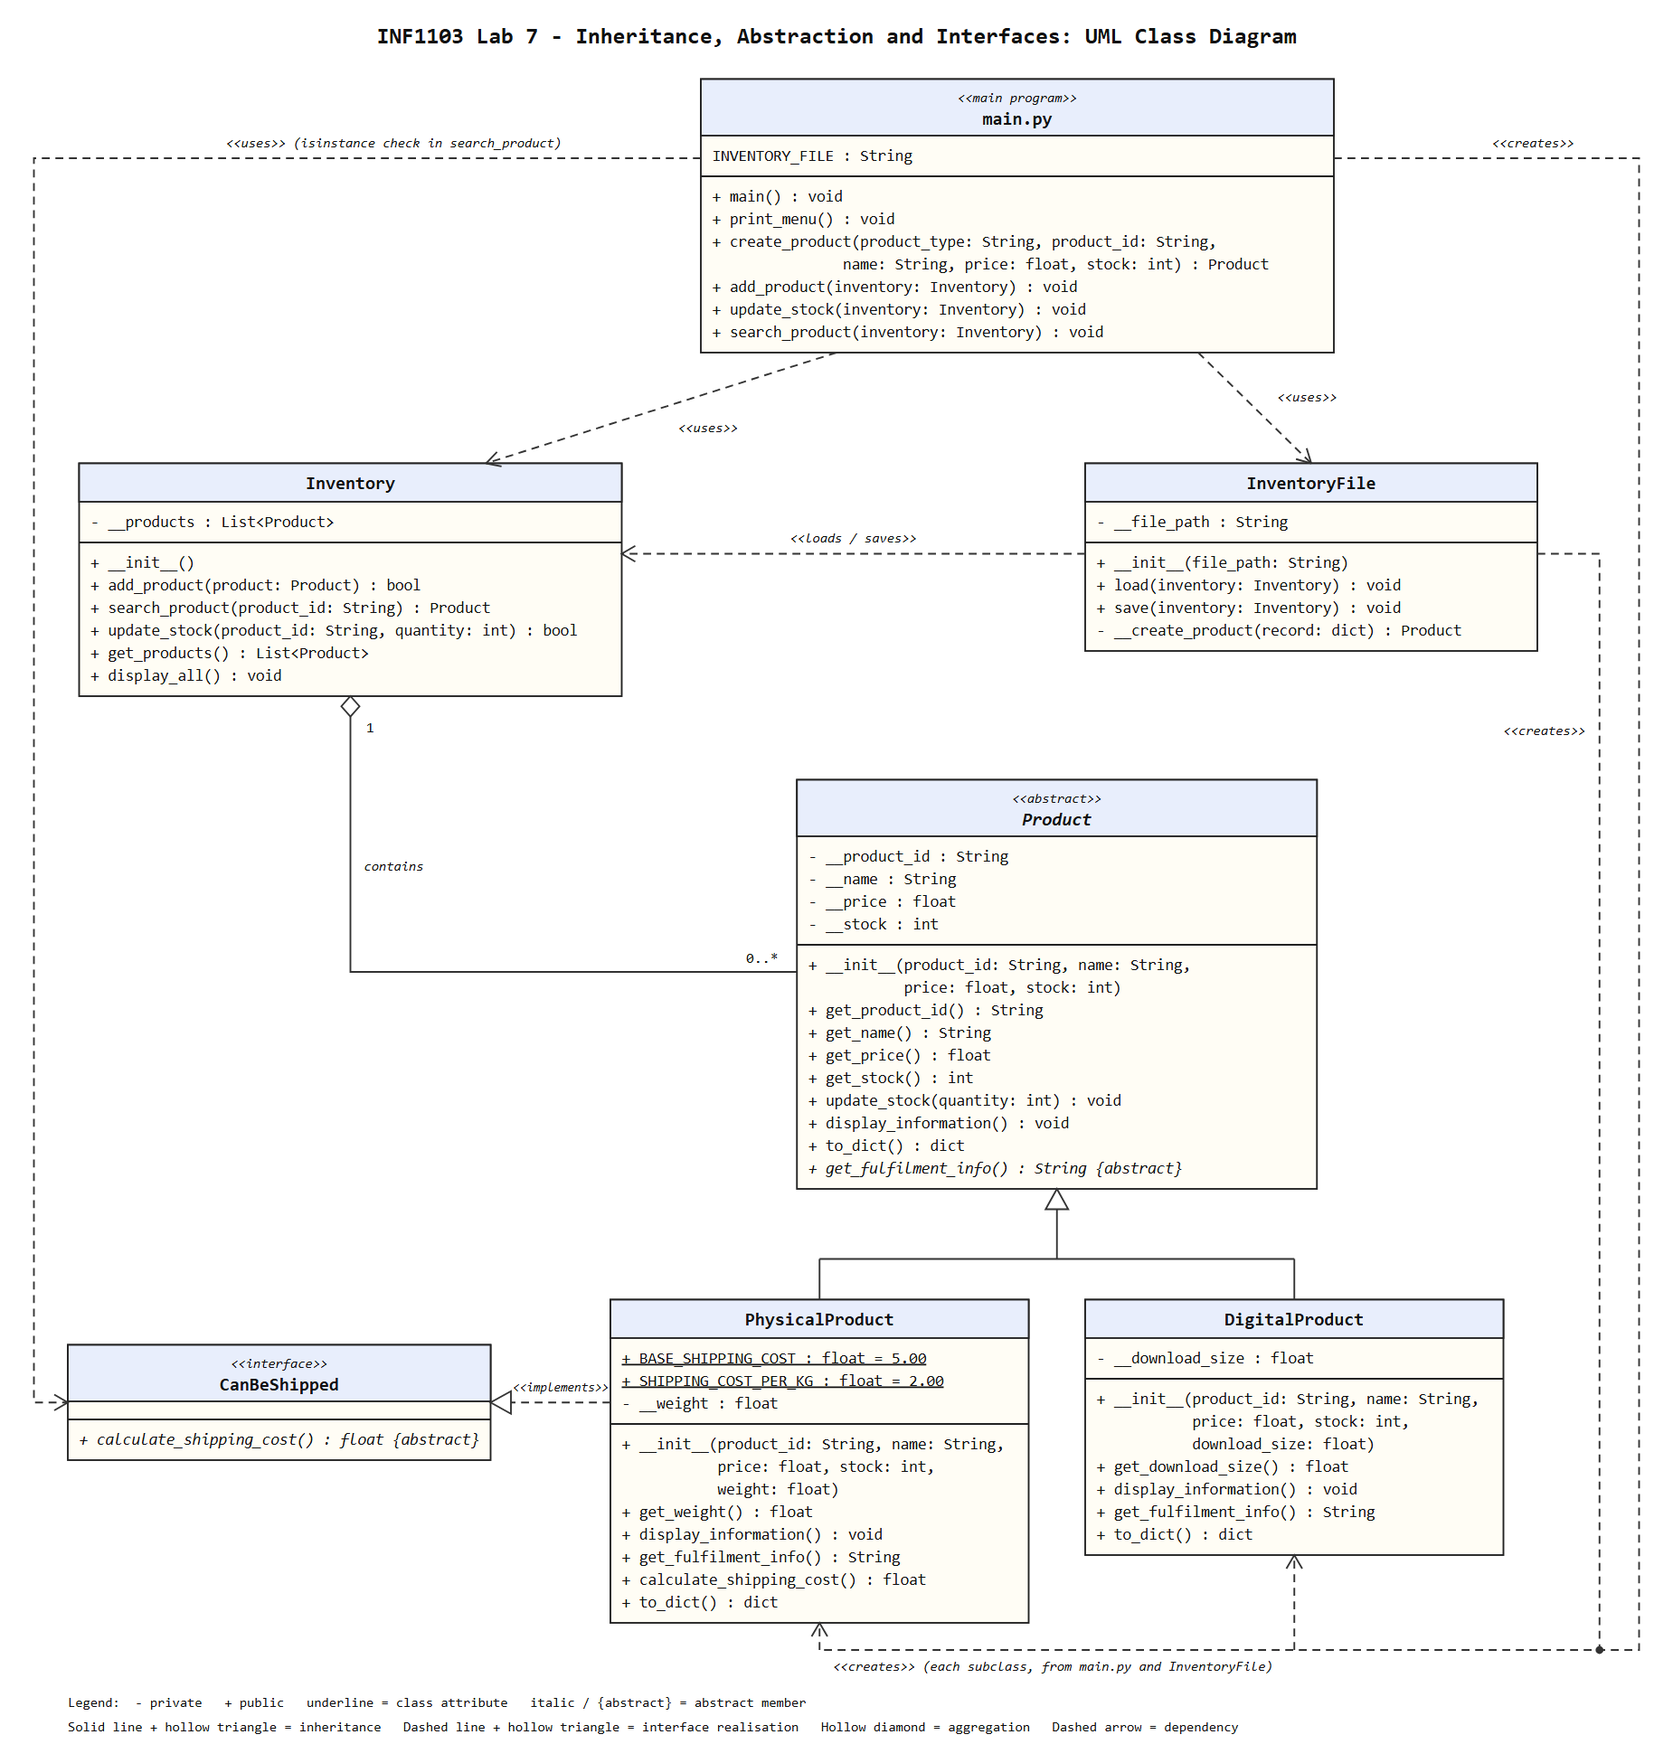
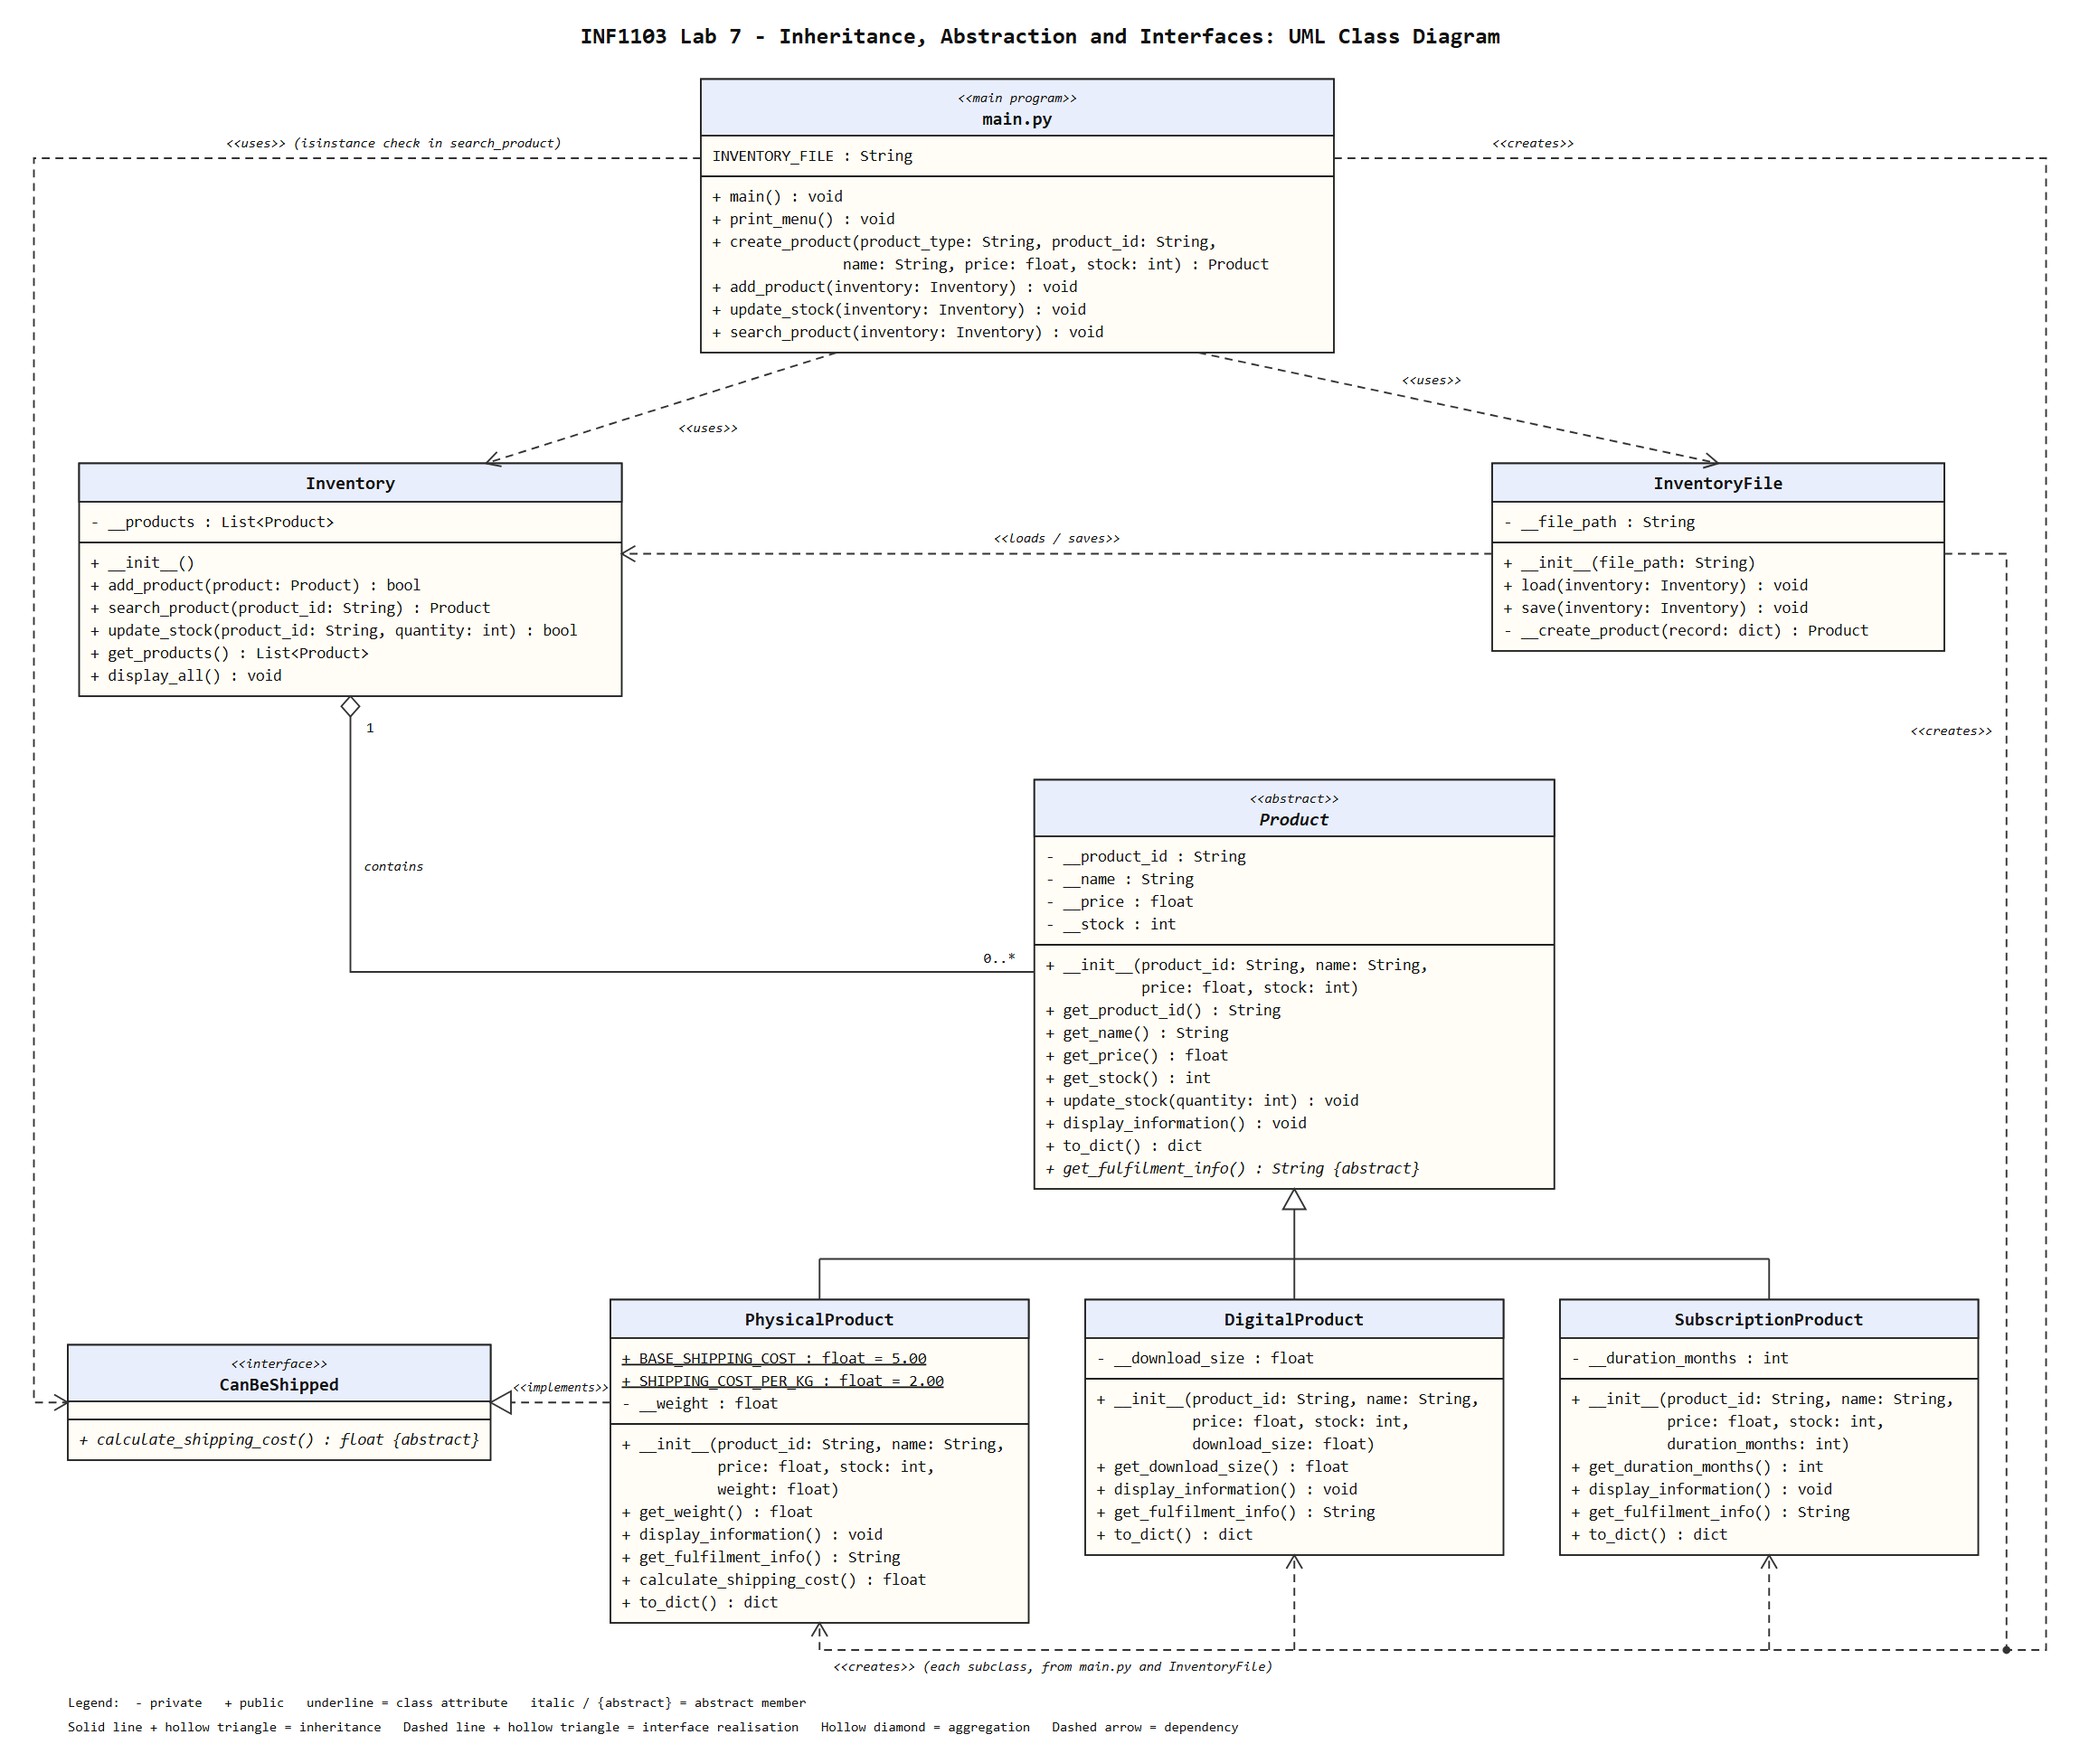
add optional SubscriptionProduct

diff --git a/wk 9/test_products.py b/wk 9/test_products.py
@@ -14,6 +14,7 @@ from inventory import Inventory
 from inventory_file import InventoryFile
 from physical_product import PhysicalProduct
 from product import Product
+from subscription_product import SubscriptionProduct
 
 
 def printed_by(function, *args):
@@ -171,6 +172,7 @@ class TestJsonPersistence(unittest.TestCase):
         inventory = Inventory()
         inventory.add_product(make_guitar())
         inventory.add_product(make_game())
+        inventory.add_product(SubscriptionProduct("S100", "Music", 10, 50, 6))
         InventoryFile(self.path).save(inventory)
 
     def test_saved_records_include_type_and_additional_attributes(self):
@@ -181,6 +183,8 @@ class TestJsonPersistence(unittest.TestCase):
         self.assertEqual(records["P100"]["weight"], 3.5)
         self.assertEqual(records["D100"]["type"], "digital")
         self.assertEqual(records["D100"]["download_size"], 2048.0)
+        self.assertEqual(records["S100"]["type"], "subscription")
+        self.assertEqual(records["S100"]["duration_months"], 6)
 
     def test_loading_restores_the_correct_subclasses_and_values(self):
         self.save_sample_inventory()
@@ -197,6 +201,10 @@ class TestJsonPersistence(unittest.TestCase):
         self.assertIs(type(game), DigitalProduct)
         self.assertEqual(game.get_download_size(), 2048.0)
 
+        music = inventory.search_product("S100")
+        self.assertIs(type(music), SubscriptionProduct)
+        self.assertEqual(music.get_duration_months(), 6)
+
     def test_invalid_records_are_skipped(self):
         records = [
             {"id": "A", "name": "No type", "price": 1, "stock": 1},
@@ -209,6 +217,21 @@ class TestJsonPersistence(unittest.TestCase):
             json.dump(records, f)
         products = self.load_inventory().get_products()
         self.assertEqual([p.get_product_id() for p in products], ["D"])
+
+
+class TestSubscriptionProduct(unittest.TestCase):
+    """Optional reflection task (section 8)."""
+
+    def test_subscription_is_a_product_but_cannot_be_shipped(self):
+        music = SubscriptionProduct("S100", "Music", 10, 50, 6)
+        self.assertIsInstance(music, Product)
+        self.assertNotIsInstance(music, CanBeShipped)
+        self.assertIn("Duration: 6 months", printed_by(music.display_information))
+        self.assertIn("activated", music.get_fulfilment_info())
+
+    def test_zero_month_subscription_is_rejected(self):
+        with self.assertRaises(ValueError):
+            SubscriptionProduct("S1", "Bad", 1, 1, 0)
 
 
 if __name__ == "__main__":

diff --git a/wk 9/main.py b/wk 9/main.py
@@ -3,6 +3,7 @@ import os
 from can_be_shipped import CanBeShipped
 from physical_product import PhysicalProduct
 from digital_product import DigitalProduct
+from subscription_product import SubscriptionProduct
 from inventory import Inventory, LINE
 from inventory_file import InventoryFile
 
@@ -17,16 +18,20 @@ def create_product(product_type, product_id, name, price, stock):
     if product_type == "1":
         weight = float(input("Weight (kg): "))
         return PhysicalProduct(product_id, name, price, stock, weight)
-    download_size = float(input("Download Size (MB): "))
-    return DigitalProduct(product_id, name, price, stock, download_size)
+    if product_type == "2":
+        download_size = float(input("Download Size (MB): "))
+        return DigitalProduct(product_id, name, price, stock, download_size)
+    duration_months = int(input("Duration (months): "))
+    return SubscriptionProduct(product_id, name, price, stock, duration_months)
 
 
 def add_product(inventory):
     print("\nAdd New Product")
     print("1. Physical Product")
     print("2. Digital Product")
+    print("3. Subscription Product")
     product_type = input("Product Type: ").strip()
-    if product_type not in ("1", "2"):
+    if product_type not in ("1", "2", "3"):
         print("\nInvalid product type. Product not added.")
         return
     product_id = input("Product ID: ").strip()

diff --git a/wk 9/subscription_product.py b/wk 9/subscription_product.py
@@ -1,0 +1,27 @@
+from product import Product
+
+
+class SubscriptionProduct(Product):
+    """Optional reflection task (section 8): a product with a billing period."""
+
+    def __init__(self, product_id, name, price, stock, duration_months):
+        super().__init__(product_id, name, price, stock)
+        if duration_months < 1:
+            raise ValueError("Subscription must last at least 1 month.")
+        self.__duration_months = int(duration_months)
+
+    def get_duration_months(self):
+        return self.__duration_months
+
+    def display_information(self):
+        super().display_information()
+        print(f"    Duration: {self.__duration_months} months")
+
+    def get_fulfilment_info(self):
+        return f"{self.get_name()} is activated on the customer's account."
+
+    def to_dict(self):
+        data = super().to_dict()
+        data["type"] = "subscription"
+        data["duration_months"] = self.__duration_months
+        return data

diff --git a/wk 9/inventory_file.py b/wk 9/inventory_file.py
@@ -3,6 +3,7 @@ import json
 
 from physical_product import PhysicalProduct
 from digital_product import DigitalProduct
+from subscription_product import SubscriptionProduct
 
 
 class InventoryFile:
@@ -50,4 +51,6 @@ class InventoryFile:
             return PhysicalProduct(*common, record["weight"])
         if product_type == "digital":
             return DigitalProduct(*common, record["download_size"])
+        if product_type == "subscription":
+            return SubscriptionProduct(*common, record["duration_months"])
         raise ValueError(f"Unknown product type: {product_type}")
